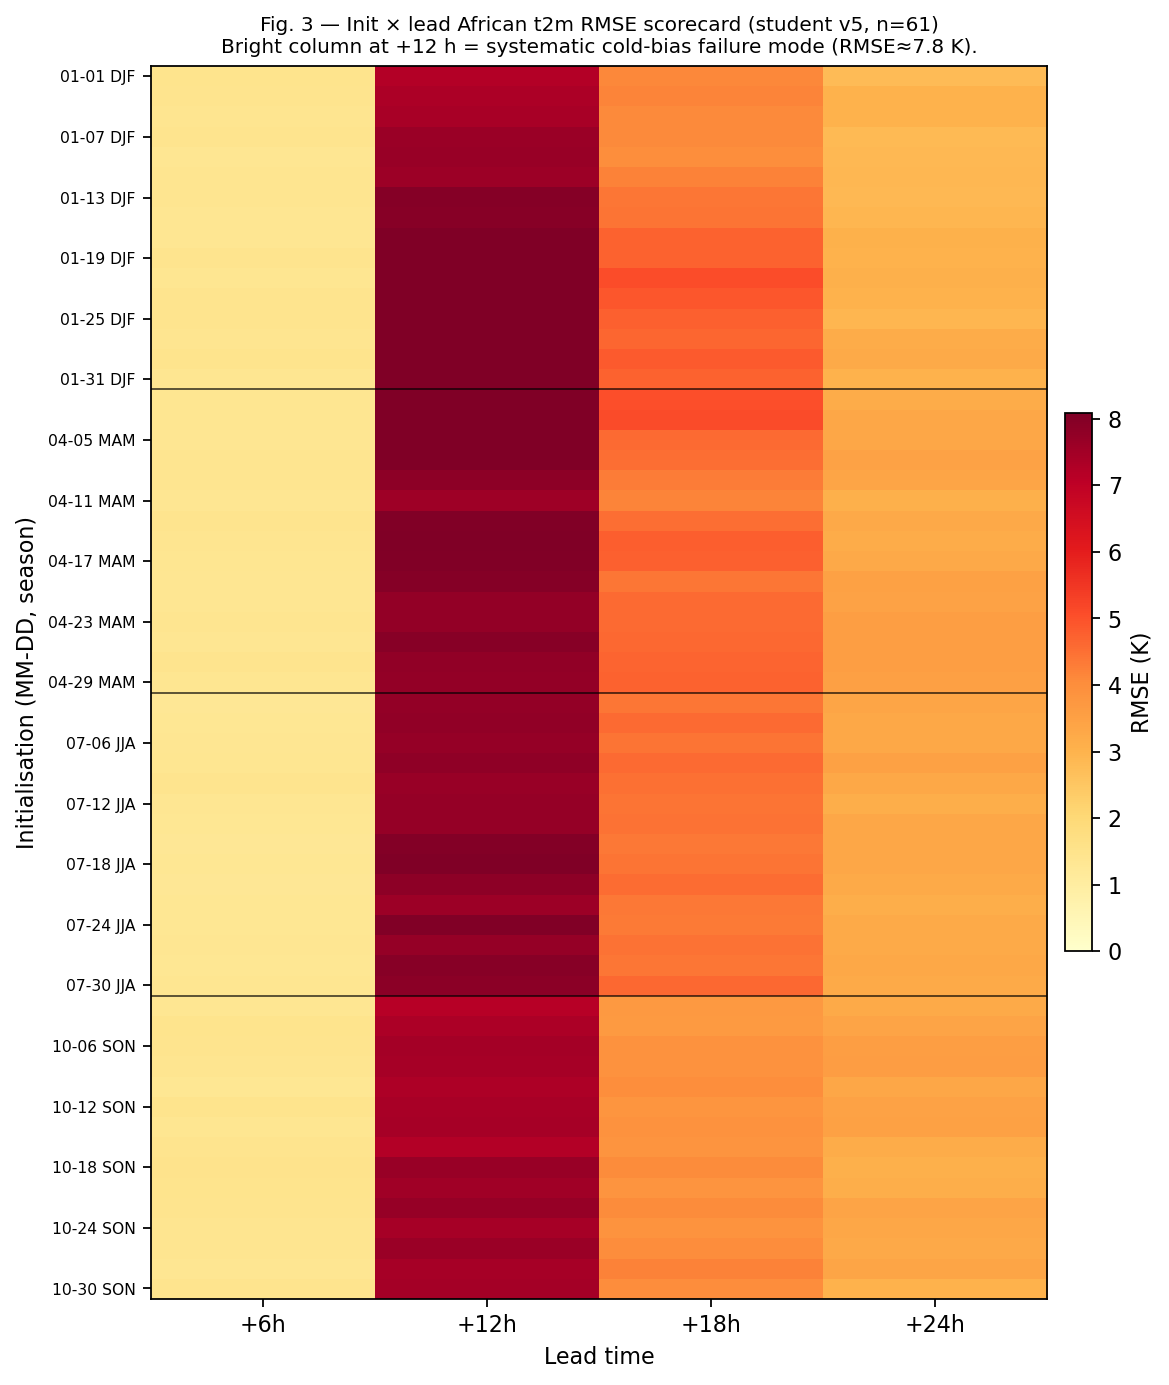
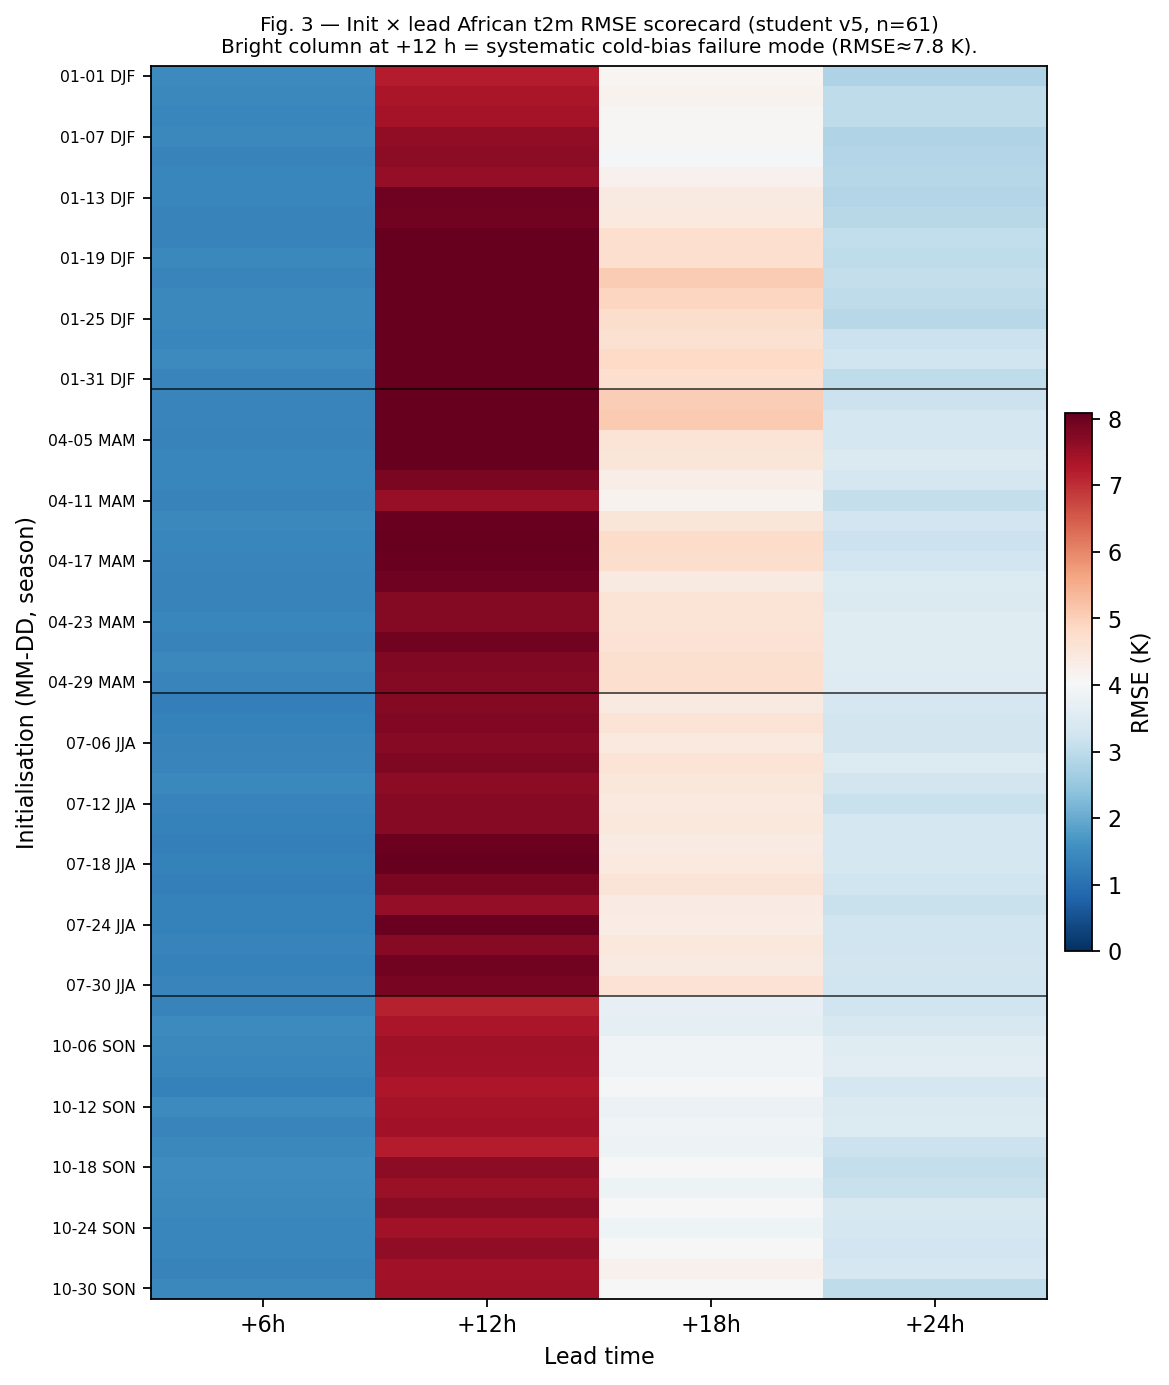
Use blues-to-reds colormap on Fig.3 t2m RMSE heatmap.
Makes the +12h failure column read as high-error red against low-error blue leads.

diff --git a/scripts/plot_mvula_report_fig02_fig03.py b/scripts/plot_mvula_report_fig02_fig03.py
@@ -127,7 +127,8 @@ def fig3_heatmap(student) -> None:
     fig, ax = plt.subplots(figsize=(7.2, fig_h), constrained_layout=True)
     # Clip colour scale so +12h ridge is visible without washing +6h
     vmax = float(np.nanpercentile(mat, 95))
-    im = ax.imshow(mat, aspect="auto", cmap="YlOrRd", vmin=0.0, vmax=vmax, interpolation="nearest")
+    # Low RMSE = blue, high RMSE = red (diverging blues/reds; +12 h failure lights up red).
+    im = ax.imshow(mat, aspect="auto", cmap="RdBu_r", vmin=0.0, vmax=vmax, interpolation="nearest")
     ax.set_xticks(range(len(leads)))
     ax.set_xticklabels([f"+{L}h" for L in leads])
     # Season separators + sparse y labels
